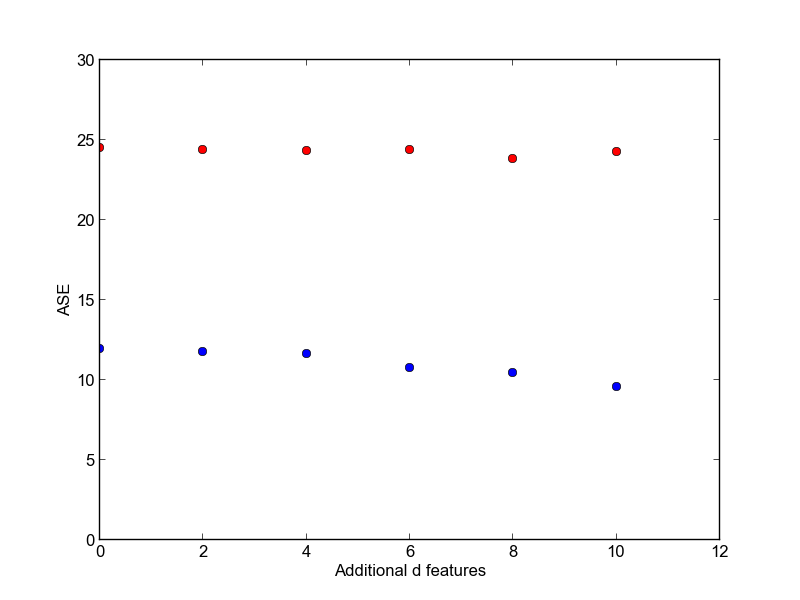
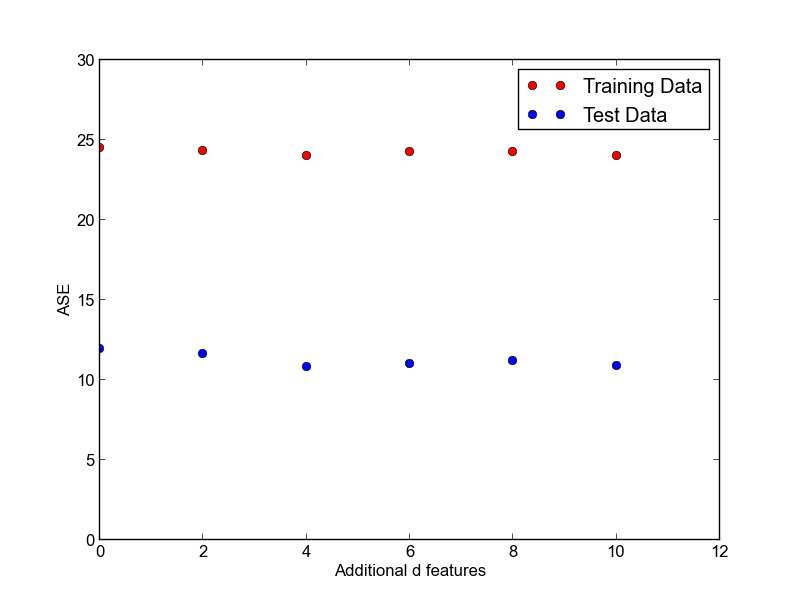
Added legends to graph
Added legends to the graph, as the assignment does say we need to label figures, legends, tables.

diff --git a/p1.py b/p1.py
@@ -4,11 +4,16 @@ import matplotlib as mpl
 mpl.use('Agg')
 
 import matplotlib.pyplot as plt
-
+import matplotlib.patches as mpatches
 #Authors: Rex Henzie, Benjamin Richards, and Michael Giovannoni
 #Sources: https://matplotlib.org/users/pyplot_tutorial.html
 #	https://stackoverflow.com/questions/13336823/matplotlib-python-error
-#	
+
+#HOW TO RUN: python p1.py
+#	For parts 1-3 it will say which part it is outputting, to help make it clear
+#	it will output the data required for part 1, 2 and 3, saying it is with or without a dummy variable, and if it is training or test data
+#	lastly it will output p1part4.png which is the graph for part 4
+
 #Question 1 Linear Regression
 
 avgTrainList = [] # hold the values of avg ASE for training
@@ -205,7 +210,7 @@ print "Test without dummy variable: Average sum of squares: ", avgSum
 avgTestList.append(float(avgSum))
 
 # part 4
-print "\nPart 4"
+# print "\nPart 4"
 mu, sigma = 0, 0.1 # mean and standard deviation
 s = np.random.normal(mu, sigma, 433) # training
 s2 = np.random.normal(mu, sigma, 433) # training
@@ -255,8 +260,8 @@ for i in range(0, 433):
 	avgSum += (Y[i][0]-columnSum)*(Y[i][0]-columnSum)
 
 avgSum = avgSum / 433
-print "Training with d=2:"
-print "Average sum of squares: ", avgSum
+# print "Training with d=2:"
+# print "Average sum of squares: ", avgSum
 
 avgTrainList.append(float(avgSum))
 
@@ -305,8 +310,8 @@ for i in range(0, 74):
 	avgSum += (Y[i][0]-columnSum)*(Y[i][0]-columnSum)
 
 avgSum = avgSum / 74
-print "Test with d=2:"
-print "Average sum of squares: ", avgSum
+# print "Test with d=2:"
+# print "Average sum of squares: ", avgSum
 avgTestList.append(float(avgSum))
 
 for k in range(4, 12, 2):
@@ -367,8 +372,8 @@ for k in range(4, 12, 2):
 		avgSum += (Y[i][0]-columnSum)*(Y[i][0]-columnSum)
 
 	avgSum = avgSum / 433
-	print "Training with d=", k
-	print "Average sum of squares: ", avgSum
+	# print "Training with d=", k
+	# print "Average sum of squares: ", avgSum
 
 	avgTrainList.append(float(avgSum))
 
@@ -419,19 +424,22 @@ for k in range(4, 12, 2):
 		avgSum += (Y[i][0]-columnSum)*(Y[i][0]-columnSum)
 
 	avgSum = avgSum / 74
-	print "Test with d=", k
-	print "Average sum of squares: ", avgSum
+	# print "Test with d=", k
+	# print "Average sum of squares: ", avgSum
 	avgTestList.append(float(avgSum))
 
 # print "avgTrainList: ", avgTrainList
 # print "avgTestList: ", avgTestList
-print "Legend for graph:"
-print "Red is training data"
-print "Blue is test data"
+
 plt.figure(1)
 plt.ylabel('ASE')
 plt.xlabel('Additional d features')
-plt.plot(0, avgTrainList[0], 'ro', 2, avgTrainList[1], 'ro', 4, avgTrainList[2], 'ro', 6, avgTrainList[3], 'ro', 8, avgTrainList[4], 'ro', 10, avgTrainList[5], 'ro')
-plt.plot(0, avgTestList[0], 'bo', 2, avgTestList[1], 'bo', 4, avgTestList[2], 'bo', 6, avgTestList[3], 'bo', 8, avgTestList[4], 'bo', 10, avgTestList[5], 'bo')
+xAxis = [0, 2, 4, 6, 8, 10]
+plt.plot(xAxis, avgTrainList, 'ro', label='Training Data')
+plt.plot(xAxis, avgTestList, 'bo', label='Test Data')
+# plt.plot(0, avgTrainList[0], 'ro', 2, avgTrainList[1], 'ro', 4, avgTrainList[2], 'ro', 6, avgTrainList[3], 'ro', 8, avgTrainList[4], 'ro', 10, avgTrainList[5], 'ro')
+# plt.plot(0, avgTestList[0], 'bo', 2, avgTestList[1], 'bo', 4, avgTestList[2], 'bo', 6, avgTestList[3], 'bo', 8, avgTestList[4], 'bo', 10, avgTestList[5], 'bo')
+
 plt.axis([0,12, 0, 30])
+plt.legend()
 plt.savefig('p1part4.png')
